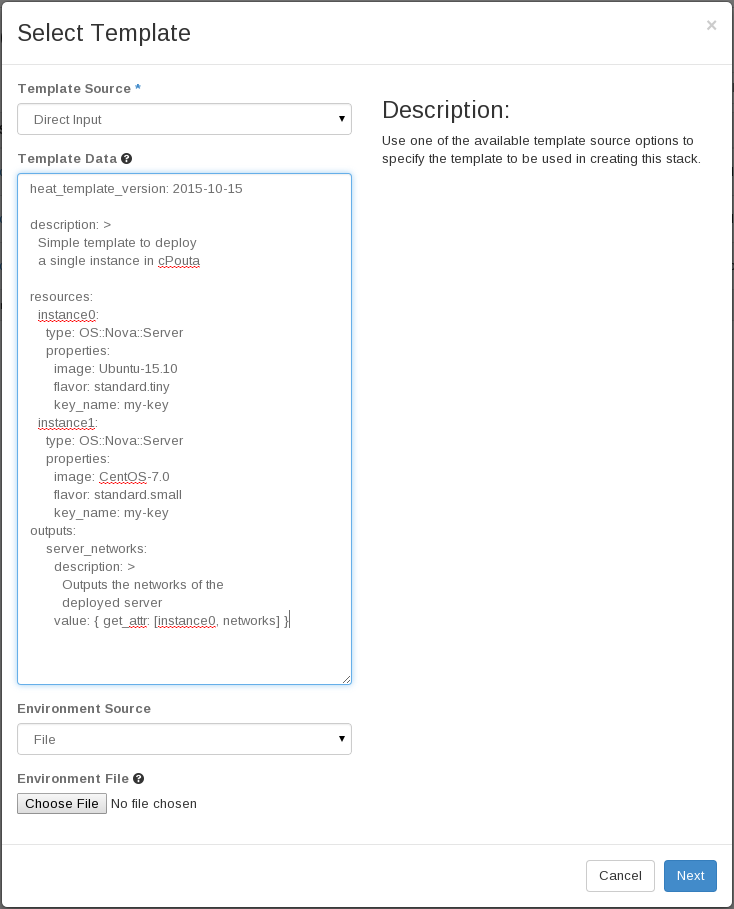
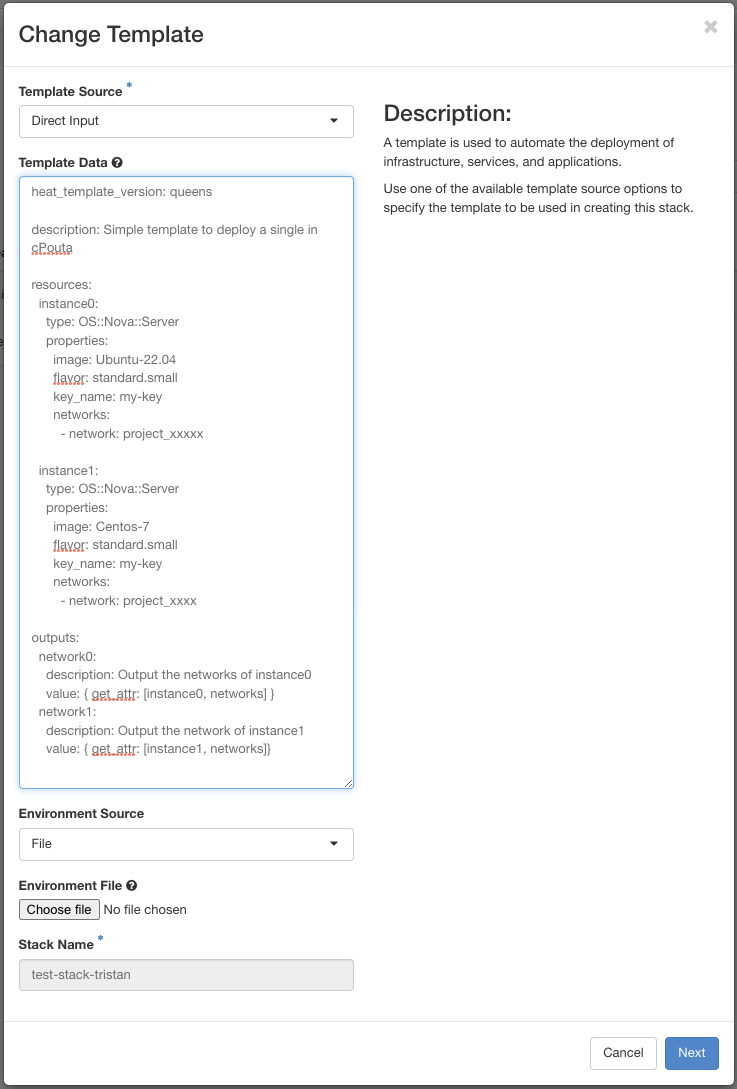
Update Openstack Heat documentation (#1758)
* Update documentation about Heat

* Update link

* Small fixes

* Fix list

* Fix link

Changed region(s): [[0.0, 0.0, 1.0, 1.0], [0.5095, 0.0924, 0.9591, 0.2156]]

diff --git a/docs/cloud/pouta/heat-orchestration.md b/docs/cloud/pouta/heat-orchestration.md
@@ -1,61 +1,68 @@
 # Orchestration with Heat
 
-This article introduces the virtual machine service orchestration 
-using OpenStack Heat available for Pouta.
+This article introduces the virtual machine service orchestration using OpenStack Heat available for Pouta.
 
-You can access this feature in the web user
-interface's left hand panel or using the OpenStack or Heat command
-line client. Orchestration provides an easy way to create the
-entire infrastructure based on a reusable and human-readable template
-file. The template can describe many components of the infrastructure,
-such as servers, volumes and floating IPs. In the same file, it can
-attach the volumes and IPs to specific instances. A template can
-also define multiple instances connected to specific networks, some of
-which have floating IPs and some a volume attached. The file can
-also be used to modify the existing infrastructure.
+You can access this feature in the web user interface's left hand panel or using the OpenStack or Heat command line client. Orchestration provides an easy way to create the entire infrastructure based on a reusable and human-readable template file. The template can describe many components of the infrastructure, such as servers, volumes and floating IPs. In the same file, it can attach the volumes and IPs to specific instances. A template can also define multiple instances connected to specific networks, some of which have floating IPs and some a volume attached. The file can also be used to modify the existing infrastructure.
 
 ### Orchestration via the web user interface
 
 !!! note
-    You should use "2016-10-14" or older as the Heat template
-    version. Features in newer template versions may not be supported. 
-    [Template versions]
+    You should use "2018-03-02" ("queens") or older as the [Heat template
+    version](https://docs.openstack.org/heat/latest/template_guide/hot_spec.html#queens). Features in newer template versions may not be supported. 
 
-These instructions provide a simple example on how to set up a
-stack via the web user interface. To create a Heat stack, click the
-"Stacks" link in the _Orchestration_ menu. The opened view 
-displays all existing stacks and provides the button "Launch Stack"
-to launch a new stack. In the window which was opened after clicking
-the "Launch  Stack" button, you can start configuring your
-stack. Selecting a template is mandatory, and the template data can
-also be provided as direct input, as depicted in the picture
-below. Note that this picture contains a valid, yet simple example of
-a template which builds two instances and displays the IP address
-of the first instance.
 
-![Template selection](/img/stacks-view.png)
+These instructions provide a simple example on how to set up a stack via the web user interface. To create a Heat stack, click the "Stacks" link in the _Orchestration_ menu. The opened view displays all existing stacks and provides the button "Launch Stack" to launch a new stack. In the window which was opened after clicking the "Launch  Stack" button, you can upload an existing template that you created or you can start configuring your stack. Selecting a template is mandatory, and the template data can also be provided as direct input, as depicted in the picture below. Note that this picture contains a valid, yet simple example of a template which builds two instances and displays the IP address of the first instance.
 
-After choosing "Next", the web user interface asks for a stack name
-and your password. After this, you can launch the stack. When the
-stack is built, it can be managed from the orchestration's _Stacks_
-view. The items which were built as a part of the stack can be found
-in their corresponding menus. In this case, the
-two instances can be seen and managed in the instances menu. In the
-stack's Overview
-tab (Orchestration -&gt; Stacks -&gt; click the stack), you can also see the output defined by the "outputs" section in
-the picture's example. To delete all components created by the stack
-template, simply press "Delete Stack" on the Stacks page.
+![Template selection](/img/stacks-view.png)  
+
+Here is the example:  
+```yaml
+heat_template_version: queens # As mentioned above, you can either use the date or the name
+
+description: Simple template to deploy a single instance in cPouta
+
+resources:
+  instance0:
+    type: OS::Nova::Server
+    properties:
+      image: Ubuntu-22.04
+      flavor: standard.small
+      key_name: my-key
+      networks:
+        - network: project_xxxxx
+
+  instance1:
+    type: OS::Nova::Server
+    properties:
+      image: Centos-7
+      flavor: standard.small
+      key_name: my-key
+      networks:
+        - network: project_xxxx
+
+outputs:
+  network0:
+    description: Output the networks of instance0
+    value: { get_attr: [instance0, networks] }
+  network1:
+    description: Output the network of instance1
+    value: { get_attr: [instance1, networks]}
+```
+
+After choosing "Next", the web user interface asks for a stack name and your password. After this, you can launch the stack. When the stack is built, it can be managed from the orchestration's _Stacks_ view. The items which were built as a part of the stack can be found in their corresponding menus. In this case, the two instances can be seen and managed in the instances menu. In the stack's Overview tab (Orchestration -&gt; Stacks -&gt; click the stack), you can also see the output defined by the "outputs" section in the picture's example. To delete all components created by the stack template, simply press "Delete Stack" on the Stacks page.
 
 ### Using orchestration with the command line client
 
-Heat can be operated with the OpenStack command line client, but
-currently you can still use the deprecated Heat command line client as
-well. Create a stack on the command line:
+!!! note
+    Be sure that `python-heatclient` is installed. You can install it by typing the command `pip install python-heatclient` (https://pypi.org/project/python-heatclient/)
 
-    openstack stack create -t /path/to/my/stack.yml my-heat-stack
+Heat can be operated with the OpenStack command line client, but currently you can still use the deprecated Heat command line client as well. Create a stack on the command line:
 
-Show the details of the newly created stack among other existing
-stacks:
+```sh
+openstack stack create -t /path/to/my/stack.yml my-heat-stack
+```
+
+Show the details of the newly created stack among other existing stacks, type the command `openstack stack list`:
 
     openstack stack list
     +--------------------------------------+---------------+-----------------+----------------------+--------------+
@@ -64,45 +71,167 @@ stacks:
     | 98077bd5-9d69-47c3-98db-b0e19a60b1fa | my-heat-stack | CREATE_COMPLETE | 2016-06-08T07:34:46Z | None         |
     +--------------------------------------+---------------+-----------------+----------------------+--------------+
 
+### Explanations
+A template is composed of two major sections:  
+- The version used (`heat_template_version`)  
+- The resource(s) (`resources`)  
+
+There are also optional sections like:  
+- The description (`description`)  
+- The parameter group(s) (`parameter_groups`)  
+- The parameter(s) (`parameters`)  
+- The output(s) (`outputs`)  
+- The condition(s) (`conditions`)  
+
+Here is a detail of each sections:  
+
+`heat_template_version`  
+&nbsp;&nbsp;&nbsp;&nbsp; Indicates that the YAML document is a HOT (Heat Orchestration Template) template of the specified version.
+
+`description`  
+&nbsp;&nbsp;&nbsp;&nbsp; Allows for giving a description of the template.
+
+`parameter_groups`  
+&nbsp;&nbsp;&nbsp;&nbsp; Allows for specifying how the input parameter should be grouped and the order to provide the parameters.
+
+`parameters`  
+&nbsp;&nbsp;&nbsp;&nbsp; Allows for specifying input parameters that have to be provided when instantiating the template.
+
+`resources`  
+&nbsp;&nbsp;&nbsp;&nbsp; Contains the declaration of the single resources of the template.
+
+`outputs`  
+&nbsp;&nbsp;&nbsp;&nbsp; Allows for specifying output parameters available once the template has been instantiated.
+
+`conditions`  
+&nbsp;&nbsp;&nbsp;&nbsp; Includes statements which can be used to restrict when a resource is created or when a property is defined
+
+
+### Advanced example: create a template to build one or more instances
+The plan here is:
+- Create a parameter file for Openstack Heat.
+- Create two Openstack Heat templates: one for the number of instance(s) (OS::Heat::ResourceGroup) and the other for the specification of the deployment.
+- Create an ansible script to automate the deployment.
+
+!!! note
+    The following tools must be installed:  
+    - [Ansible](https://docs.ansible.com/ansible/latest/installation_guide/intro_installation.html)  
+    - python-openstackclient (`pip install python-openstackclient`)  
+    - python-heatclient (`pip install python-heatclient`)  
+
+First, you can create a `heat_params.yaml` that will contains different variables use for your instance. Use your own value:  
+
+```yaml
+parameter_defaults:
+  ssh_key_name:
+  vm_flavor:
+  vm_image:
+  vm_network:
+  count:
+```
+
+Second, two Openstack Heat templates. For the first one, we'll take our previous examples with some modifications. We call it `heat_stack_vm.yaml`:  
+
+```yaml
+heat_template_version: queens # As mentioned above, you can either use the date or the name
+
+description: Simple template to deploy a single or several instance(s) in cPouta
+
+parameters: # Since we created a heat_params.yaml, they will be retrieved from this file
+  ssh_key_name:
+    description: SSH key name
+    type: string
+  vm_name:
+    description: Name for the VM
+    type: string
+  vm_flavor:
+    description: Flavor for the VM
+    type: string
+  vm_image:
+    description: Image for the VM
+    type: string
+  vm_network:
+    description: Network for the VM
+    type: string
+
+resources:
+  instance:
+    type: OS::Nova::Server
+    properties:
+      name: { get_param: vm_name } # This is value will be retrieved from servers_group.yaml file. See after.
+      image: { get_param: vm_image }
+      flavor: { get_param: vm_flavor }
+      key_name: { get_param: ssh_key_name }
+      networks:
+        - network: { get_param: vm_network }
+
+outputs:
+  network:
+    description: Output the networks of instance
+    value: { get_attr: [instance, networks] }
+```
+
+Third, we'll create a file called `servers_group.yaml`, a [ResourceGroup](https://docs.openstack.org/heat/latest/template_guide/openstack.html#OS::Heat::ResourceGroup), which allows us to scale our instances:  
+
+```yaml
+heat_template_version: queens
+
+description: Resource Group to deploy one or several instance(s)
+
+parameters: # Parameter retrieves from heat_params.yaml file.
+  count:
+    description: Number of resources
+    type: string
+
+resources:
+  instances_group:
+    type: OS::Heat::ResourceGroup
+    properties:
+      count: { get_param: count }
+      resource_def:
+        type: heat_stack_vm.yaml # We define our previous template for the type.
+        properties:
+          vm_name: test-stack-%index% # Value %index% will be increased if more than one vm is created.
+
+outputs:
+  print_out:
+    value: { get_attr: [instances_group, network] }
+```
+
+And finally, we'll create an ansible script that will build and deploy our vm(s). Let's call it `build-heat-stack.yaml`:  
+
+```yaml
+- hosts: localhost
+  gather_facts: false
+  vars:
+    heat_environment_file: "heat_params.yaml" # Be sure that the file is located at the same level as build-heat-stack.yaml
+
+  tasks:
+    - name: Build a Heat stack VM
+      register: heat_stack
+      os_stack:
+        name: "{{ stack_name }}"
+        state: present
+        template: "servers_group.yaml" # Be sure that the file is located at the same level as build-heat-stack.yaml
+        environment: 
+          - "{{ heat_environment_file }}"
+
+    - name: Print out network
+      debug:
+        var: heat_stack
+```
+
+Source your cPouta project (`source project_xxxxx.sh`) and run the command:   
+```sh
+ansible-playbook -e stack_name="test-stack" build-heat-stack.yaml`
+```
+
+If everything went well, you can check that the stack was created, either using the web interface of cPouta or typing the command: `openstack stack list`.  
+You can also check the instance(s) created: `openstack server list`.  
+
+If you delete the stack, all the resources created from it will be deleted as well.
+
 ### Heat guidelines and command references
 
-For more information, visit the OpenStack
-[Heat wiki]. For a full reference
-to the OpenStack command line client, see the [command line
-reference], and for the Heat command
-line client, see the [Heat CLI reference].
-
-To try out the example provided here, modify at least the "key\_name"
-in the template code:
-
-    heat_template_version: 2015-10-15
-
-    description: >
-      Simple template to deploy
-      a single instance in cPouta
-
-    resources:
-      instance0:
-        type: OS::Nova::Server
-        properties:
-          image: Ubuntu-16.04
-          flavor: standard.tiny
-          key_name: my-key
-      instance1:
-        type: OS::Nova::Server
-        properties:
-          image: CentOS-7
-          flavor: standard.small
-          key_name: my-key
-    outputs:
-        server_networks:
-          description: >
-            Outputs the networks of the
-            deployed server
-          value: { get_attr: [instance0, networks] }
-
-  [Template versions]: https://docs.openstack.org/heat/latest/template_guide/hot_spec.html#heat-template-version
-  [OpenStack developer Guide]: http://docs.openstack.org/developer/heat/template_guide/
-  [Heat wiki]: https://wiki.openstack.org/wiki/Heat
-  [command line reference]: http://docs.openstack.org/cli-reference/openstack.html
-  [Heat CLI reference]: https://docs.openstack.org/mitaka/cli-reference/heat.html
+For more information, visit the OpenStack [Heat wiki](https://wiki.openstack.org/wiki/Heat). For a full reference to the OpenStack command line client, see the [command line reference](http://docs.openstack.org/cli-reference/openstack.html).  
+Here is an example on our GitHub to deploy one or several instances with nginx [Read more about the GitHub repo](https://github.com/CSCfi/heat-openstack-example){ target="_blank" }
